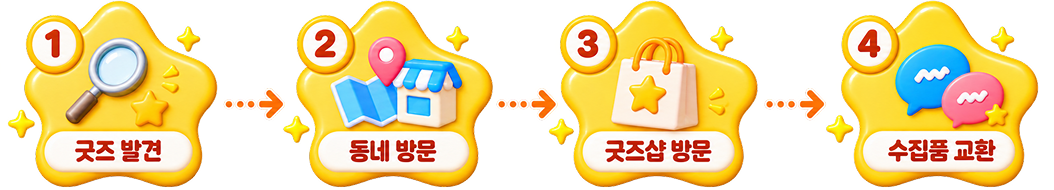
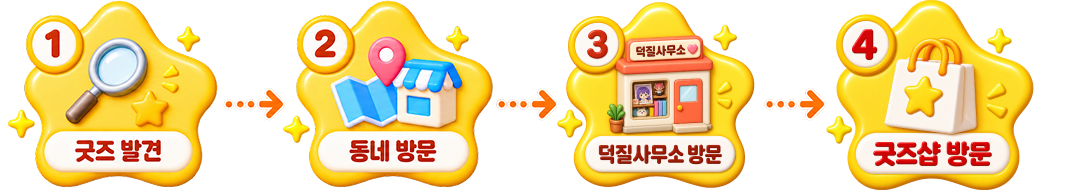
텍스트 수정 및 이미지 수정

diff --git a/src/components/UserService.jsx b/src/components/UserService.jsx
@@ -9,13 +9,15 @@ import "swiper/css";
 import "swiper/css/navigation";
 
 import goods_find from "../assets/image/userservice_goods.png";
+import goods_icon from "../assets/image/SliderIcon1.png";
 import goods_step from "../assets/image/userservice_step_goods.png";
 
-// 나중에 실제 이미지로 교체
 import ar_find from "../assets/image/userservice_AR.png";
+import ar_icon from "../assets/image/SliderIcon3.png";
 import ar_step from "../assets/image/userservice_step_AR.png";
 
 import guild_find from "../assets/image/userservice_guild.png";
+import guild_icon from "../assets/image/SliderIcon2.png";
 import guild_step from "../assets/image/userservice_step_guild.png";
 
 const UserService = () => {
@@ -86,6 +88,25 @@ const UserService = () => {
               <SwiperSlide>
                 <div className="img__wrap">
                   <img className="slider" src={goods_find} alt="굿즈 찾기" />
+                  <div className="slider__wrap">
+                    <img
+                      className="icon icon01"
+                      src={goods_icon}
+                      alt="굿즈 찾기"
+                    />
+                    <div className="text__wrap">
+                      <h3 className="title">
+                        <strong>AI로 더 빠르게,</strong>
+                        <br />
+                        원하는 굿즈를 찾아보세요.
+                      </h3>
+                      <span className="desc">
+                        사진이나 키워드로 굿즈를 검색하고
+                        <br />내 주변에서 만날 수 있는 굿즈샵까지 확인할 수
+                        있어요.
+                      </span>
+                    </div>
+                  </div>
 
                   <img
                     className="step"
@@ -99,6 +120,25 @@ const UserService = () => {
               <SwiperSlide>
                 <div className="img__wrap">
                   <img className="slider" src={ar_find} alt="AR 탐험" />
+                  <div className="slider__wrap">
+                    <img
+                      className="icon icon02"
+                      src={ar_icon}
+                      alt="굿즈 찾기"
+                    />
+                    <div className="text__wrap">
+                      <h3 className="title">
+                        <strong>AI로 더 빠르게,</strong>
+                        <br />
+                        동네를 탐험해보세요.
+                      </h3>
+                      <span className="desc">
+                        내 주변 굿즈샵을 AR 길찾기로
+                        <br />
+                        쉽고 재미있게 찾아갈 수 있어요
+                      </span>
+                    </div>
+                  </div>
 
                   <img className="step" src={ar_step} alt="AR 탐험 이용 단계" />
                 </div>
@@ -108,6 +148,25 @@ const UserService = () => {
               <SwiperSlide>
                 <div className="img__wrap">
                   <img className="slider" src={guild_find} alt="굿즈 사무소" />
+                  <div className="slider__wrap">
+                    <img
+                      className="icon icon03"
+                      src={guild_icon}
+                      alt="굿즈 찾기"
+                    />
+                    <div className="text__wrap">
+                      <h3 className="title">
+                        <strong>굿즈 사무소에</strong> 굿즈를 등록하고
+                        <br />
+                        나만의 컬렉션을 완성해보세요.
+                      </h3>
+                      <span className="desc">
+                        다른 유저의 사무소를 둘러보다
+                        <br />
+                        원하는 굿즈가 있으면 교환할 수 있어요.
+                      </span>
+                    </div>
+                  </div>
 
                   <img
                     className="step"

diff --git a/src/assets/scss/section/_userservice.scss b/src/assets/scss/section/_userservice.scss
@@ -147,6 +147,47 @@
           align-items: center;
           justify-content: center;
           padding: 1rem;
+          position: relative;
+
+          .slider__wrap {
+            display: flex;
+            align-items: center;
+            align-content: center;
+            position: absolute;
+            top: 15%;
+            left: 10%;
+
+            .icon {
+              width: 13%;
+            }
+
+            .text__wrap {
+              h3 {
+                font-family: var(--font_color4);
+                color: var(--white);
+                font-weight: 800;
+                font-size: 2.5rem;
+
+                strong {
+                  font-family: var(--font_color4);
+                  color: var(--yellow400);
+                  font-weight: 800;
+                }
+
+                text-shadow: -2px -2px 0 #4285e8, 2px -2px 0 #4285e8,
+                  -2px 2px 0 #4285e8, 2px 2px 0 #4285e8,
+                  0px 3px 5px rgba(20, 95, 210, 0.7);
+              }
+              span {
+                font-size: 1.1rem;
+                color: var(--white);
+
+                text-shadow: -2px -2px 0 #4285e8, 2px -2px 0 #4285e8,
+                  -2px 2px 0 #4285e8, 2px 2px 0 #4285e8,
+                  0px 3px 5px rgba(20, 95, 210, 0.7);
+              }
+            }
+          }
 
           img {
             display: block;

diff --git a/src/assets/scss/setting/_vars.scss b/src/assets/scss/setting/_vars.scss
@@ -33,6 +33,7 @@
   --yellow: #fbcc5d;
   --yellow200: #fefbe8;
   --yellow300: #ecedb7;
+  --yellow400: #fde362;
 
   --font_color1: #283d6b;
   --font_color2: #17244f;
